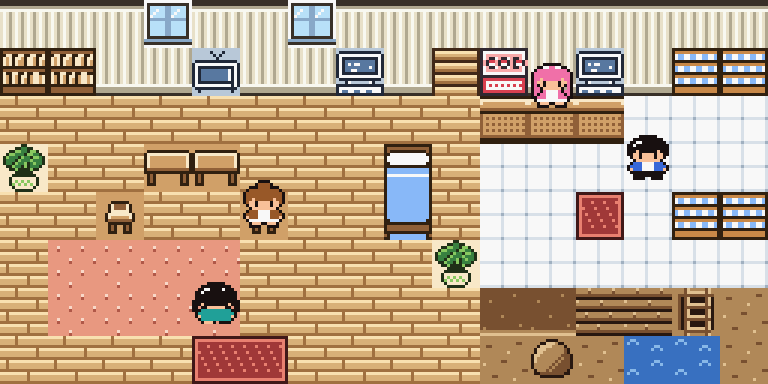
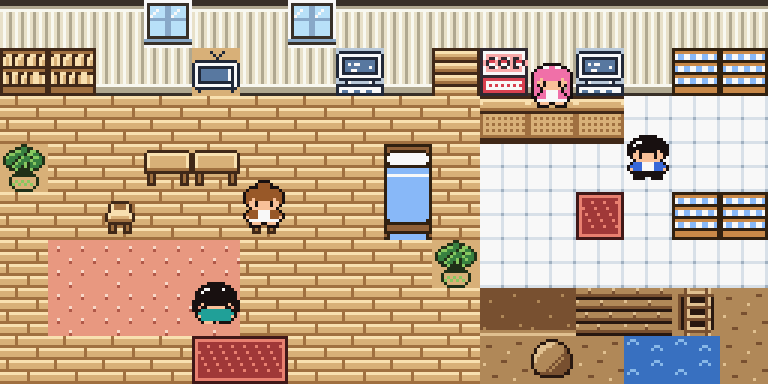
Art: blend home furniture into wood floor
Claude-Session: https://claude.ai/code/session_01VDPeRWH8H6AS12nRDWR9iP

diff --git a/art/tiles.py b/art/tiles.py
@@ -916,6 +916,23 @@ def window_in():
 
 WOOD_BG = 1  # index of the floor-tan colour in furniture palettes
 
+
+def on_wood(src, bg=WOOD_BG):
+    """Replace the border-connected background of a furniture grid with the
+    floor_wood plank pattern (furniture palette == floor_wood tones)."""
+    a = src.copy()
+    seen = np.zeros((TS, TS), bool)
+    stack = [(y, x) for y in range(TS) for x in (0, TS - 1)] + \
+            [(y, x) for x in range(TS) for y in (0, TS - 1)]
+    while stack:
+        y, x = stack.pop()
+        if not (0 <= y < TS and 0 <= x < TS) or seen[y, x] or a[y, x] != bg:
+            continue
+        seen[y, x] = True
+        stack += [(y + 1, x), (y - 1, x), (y, x + 1), (y, x - 1)]
+    a[seen] = floor_wood()[seen]
+    return a
+
 COUNTER = grid("""
 3333333333333333
 0000000000000000
@@ -1481,12 +1498,12 @@ def build_tiles():
     add("counter", "furniture", COUNTER)
     add("pc", "tech", PC)
     add("bookshelf", "furniture", BOOKSHELF)
-    add("table", "furniture", TABLE)
-    add("chair", "furniture", CHAIR)
+    add("table", "furniture", on_wood(TABLE))
+    add("chair", "furniture", on_wood(CHAIR))
     add("bed_top", "bed", BED_TOP)
     add("bed_bottom", "bed", BED_BOTTOM)
     add("plant", "plant", PLANT)
-    add("tv", "tech", TV)
+    add("tv", "tv", TV)
     add("rug_l", "rug", rug("l"))
     add("rug_r", "rug", rug("r"))
     add("rug_mat", "rug", rug("single"))

diff --git a/art/palettes.py b/art/palettes.py
@@ -66,10 +66,11 @@ TILE = {
     "carpet": pal("F8D8C8", "E89880", "B05848", "401818"),
     "wall_in": pal("F8F8F0", "E8E0C8", "B0A890", "383028"),
     "window_in": pal("F8F8F8", "B8E0F8", "88A8C8", "383028"),
-    "furniture": pal("F8E8C8", "D0A068", "906038", "302010"),
+    "furniture": pal("F8E0B0", "D8B078", "A07040", "402818"),  # = floor_wood tones
+    "tv": pal("F8F8F8", "D8B078", "5878A0", "202838"),
     "bed": pal("F8F8F8", "88B8F8", "906038", "302010"),
     "tech": pal("F8F8F8", "B8C8D8", "5878A0", "202838"),
-    "plant": pal("F8E8C8", "88C860", "388040", "203018"),
+    "plant": pal("D8B078", "88C860", "388040", "203018"),
     "heal": pal("F8F8F8", "F8A8A8", "D84050", "302830"),
     "mart_shelf": pal("F8F8F8", "88B8F8", "C88848", "302010"),
     "rug": pal("F8D8C8", "E88070", "A03838", "401818"),
